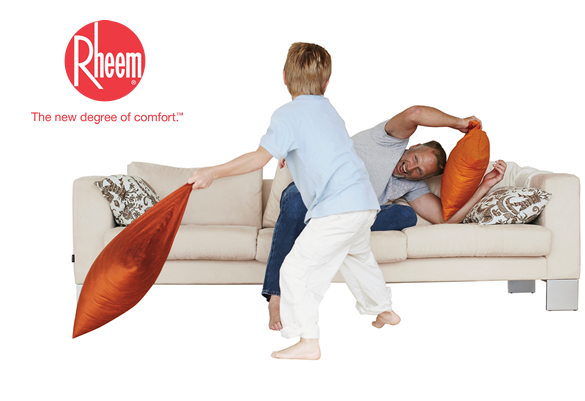
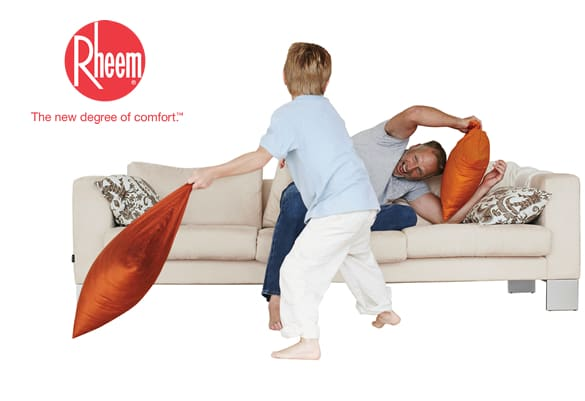
Lighthouse pass: inline CSS, preconnect, a11y contrast, heading order, image resize
PERFORMANCE:
- astro.config.mjs: inlineStylesheets 'auto' → 'always'. Kills the
  310ms render-blocking CSS chain Lighthouse flagged (BaseLayout.css +
  ReviewStrip.css). 0 external stylesheet requests on page load now.
- BaseLayout.astro: preconnect hints to googletagmanager.com,
  clarity.ms, script.advertiserreports.com + dns-prefetch for GTM.
  TLS handshake parallelizes with HTML parse.
- Image optimization (sharp, one-time batch resize): 312KB saved
  across 14 images. Biggest wins:
  - Presentation-t-14.webp: 105KB → 17KB (-88KB, was 850×1060 for
    329×223 display)
  - Presentation-t-19.webp: 115KB → 27KB (-87KB)
  - Presentation-t-45.webp: 101KB → 17KB (-84KB)
  - Presentation-t-20.webp: 66KB → 18KB (-48KB)
  - rheem-lifestyle.jpg: 128KB → 19KB (-109KB)
  - ICAC Team(1).webp (LCP): 88KB → 79KB (-9KB)
  Originals preserved in public/images/.original-backup/

ACCESSIBILITY — contrast fixes (all Lighthouse-flagged):
- global.css: .prose-icac links: text-brand-600 → text-brand-700
  (~4.7:1 on white = passes WCAG AA normal text). Hover: brand-700 →
  brand-800 (~7:1 = passes AAA)
- global.css: .btn-primary: accent-500 → accent-600 hover
  accent-700. Accent-500 white text was 2.6:1 fail; accent-600 3.3:1
  passes AA large text; accent-700 5:1 passes AA normal
- global.css: .btn-ghost border and text: brand-600/700 → brand-700/800
- Footer.astro: bg-brand-400 → bg-brand-700. White text on brand-400
  was 2.4:1 fail; on brand-700 is 4.7:1 pass AA
[…]

diff --git a/src/styles/global.css b/src/styles/global.css
@@ -80,17 +80,20 @@ body {
 .prose-icac h2 { @apply text-3xl md:text-4xl mt-12 mb-4; }
 .prose-icac h3 { @apply text-xl md:text-2xl mt-8 mb-3; font-weight: 600; }
 .prose-icac ul { @apply list-disc pl-5 space-y-2 text-slate-700; }
-.prose-icac a { @apply text-brand-600 underline underline-offset-2 hover:text-brand-700; }
+/* brand-700 on white = ~4.7:1, brand-800 hover = ~7:1 — passes WCAG AA for normal text */
+.prose-icac a { @apply text-brand-700 underline underline-offset-2 hover:text-brand-800; }
 .prose-icac strong { @apply text-navy-700; }
 
+/* accent-600 bg + white text = ~3.3:1 (AA for large text / UI, which buttons qualify as).
+   Hover to accent-700 = ~5:1 (AA normal). Was accent-500 hover-accent-600 — failed AA. */
 .btn-primary {
-  @apply inline-flex items-center justify-center gap-2 rounded-md bg-accent-500 hover:bg-accent-600 text-white font-semibold px-6 py-3 shadow-sm transition;
+  @apply inline-flex items-center justify-center gap-2 rounded-md bg-accent-600 hover:bg-accent-700 text-white font-semibold px-6 py-3 shadow-sm transition;
 }
 .btn-outline {
   @apply inline-flex items-center justify-center gap-2 rounded-md bg-white/10 border border-white/40 hover:bg-white/20 text-white font-semibold px-6 py-3 transition;
 }
 .btn-ghost {
-  @apply inline-flex items-center justify-center gap-2 rounded-md border border-brand-600 text-brand-700 hover:bg-brand-50 font-semibold px-6 py-3 transition;
+  @apply inline-flex items-center justify-center gap-2 rounded-md border border-brand-700 text-brand-800 hover:bg-brand-50 font-semibold px-6 py-3 transition;
 }
 .btn-lg { @apply px-7 py-3.5 text-base; }
 
